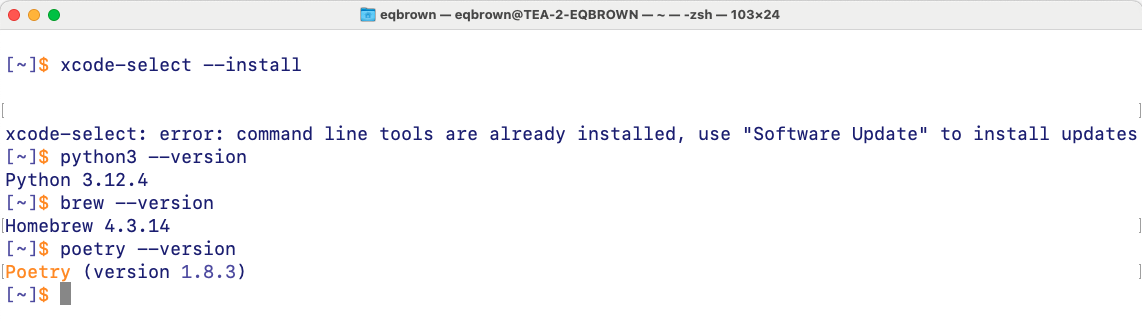
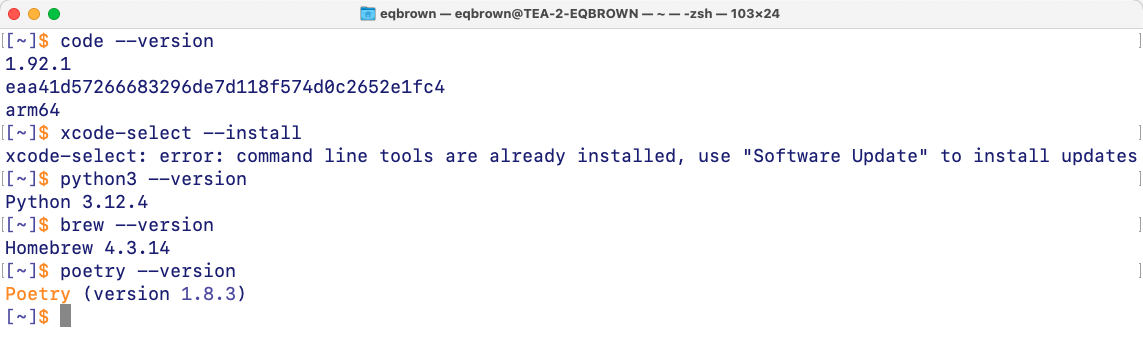
added form and more detaield check instructions

Changed region(s): [[0.0, 0.0, 1.0, 0.8723], [0.3065, 0.0, 0.7049, 0.0935]]

diff --git a/content/cs9/unit00/initial_setup.md b/content/cs9/unit00/initial_setup.md
@@ -127,7 +127,7 @@ bgenzlinger~/Documents$
 ## Installing Poetry
 *Poetry makes sure your coding environment is set up to work for all your coding projects*
 
-{{< code-action "Run the below command to install Pipx with Brew." >}} 
+{{< code-action "Run the below command to install Pipx with Brew." >}} You MUST install `pipx` after installing `homebrew`. 
 ```shell
 brew install pipx
 ```
@@ -139,100 +139,53 @@ pipx install poetry
 
 ---
 
-<!-- {{< code-action "Run the below command to install the Github CLI." >}}
-```shell
-brew install gh
-```
-{{< code-action "Run the below command to authorize." >}} This will take you through a few prompts to log in to your github account.
-```shell
-gh auth login
-```
-
-**You will be asked the following questions to finish the authorization process. You should accept all the default highlighted options, which are these:**
-
-0. "What account do you want to log into?" - GitHub.com
-0. "What is your preferred protocol for Git operations?" - HTTPS
-0. "Authenticate Git with your GitHub credentials?" - Yes
-0. "How would you like to authenticate GitHub CLI?" - Log in with a web browser
-
-> **If you are asked for your computer password, you won't see any letters appear as you type.** This is normal--it's to keep the person standing behind you from seeing your password.
-
-{{< code-action "When prompted, copy your code and press enter." >}} Then you can follow the prompts in your browser. -->
-
-
-<!-- 
-## If you are using Windows, please email your teachers as soon as possible and they will send you updated instructions. --> 
-<!-- ## Install Linux
-
-## Installing Python
-
-(0) **Start by installing the latest version of Python.** [Open this link](https://www.python.org/downloads/), click "Download Python," and follow the installation instructions.
-  - Make sure you select `Add Python 3.10 to PATH'
-
-(1) **Open Windows Powershell**. We will be using this application every class. We suggest you pin it to your toolbar.
-{{< figure src="https://upload.wikimedia.org/wikipedia/commons/a/af/PowerShell_Core_6.0_icon.png" width="25%" alt-text="Python Turtle Graphics" >}}
-
-(2) **Check Python installed successfully by typing `python --version` into Powershell.**
-> You should see a version number above `3.10`
-
-{{< youtube "uhRWvk1Cafc" >}}
-
-
-## Installing Github for CLI
-
-(0) **Go to [cli.github.com](https://cli.github.com/
-) and install Github CLI**
-
-(1) **Open Windows Powershell**
-
-(2) **Type this command: `gh auth login`**
-
-(3) **It will ask you a series of questions. Follow the *blue* answers below.**
-
-{{< figure src="images/courses/cs9/unit00/-000_initialsetup1.png" width="100%" alt-text="mwc setup" >}}
-> Make sure you copy your "one-time code". You will need to active your computer in the browser.
-
-{{< figure src="images/courses/cs9/unit00/-000_initialsetup2.png" width="50%" alt-text="mwc setup" >}}
-
-(4) **Once complete, you will see the following in your Powershell**
-
-{{< figure src="images/courses/cs9/unit00/-000_initialsetup3.png" width="100%" alt-text="mwc setup" >}}
-
-
-{{< aside >}}
-Whenever this website says to use Terminal, you should use Windows Powershell. There will be other small differences for Windows users that we'll explain along the way.
-{{< /aside >}} -->
-
 
 ## Testing your Setup
 
 
 
-💻 **Run each of the following checks one at a time to check your setup.**
+💻 **Run each of the following checks one at a time to check your setup.** If you do not see an `version number`, there was an error with the install.
 
+✔ *Checks `Visual Studio Code`*
 
 ```shell
-code -v
+code --version
 ```
+
+✔ *Checks `Xcode`*
 
 ```shell
 xcode-select --install
 ```
 
+✔ *Checks `Python`*
+
 ```shell
 python3 --version
 ```
+
+✔ *Checks `Homebrew`*
 
 ```shell
 brew --version
 ```
 
+✔ *Checks `Poetry`*
+
 ```shell
 poetry --version
 ```
 
-📸 **Take a screenshot** of the result and send it to your teachers, *bgenzlinger@isf.edu.hk* and *eqbrown@isf.edu.hk*, regardless of whether it worked or not. 
+
+
+{{< deliverables "Fill out the Install Form" >}}
+
+✅ **Fill out this form to notify your teachers if your install was successfull:** [forms.gle/xSKm6Xv7G3NYQ4EF7](https://forms.gle/xSKm6Xv7G3NYQ4EF7)
+
 
 A successful setup will look something like this:
 
 {{< figure src="images/courses/cs9/unit00/-000_initialsetup15.png" width="100%" alt-text="mwc setup" >}}
+
+
+{{< /deliverables >}}
